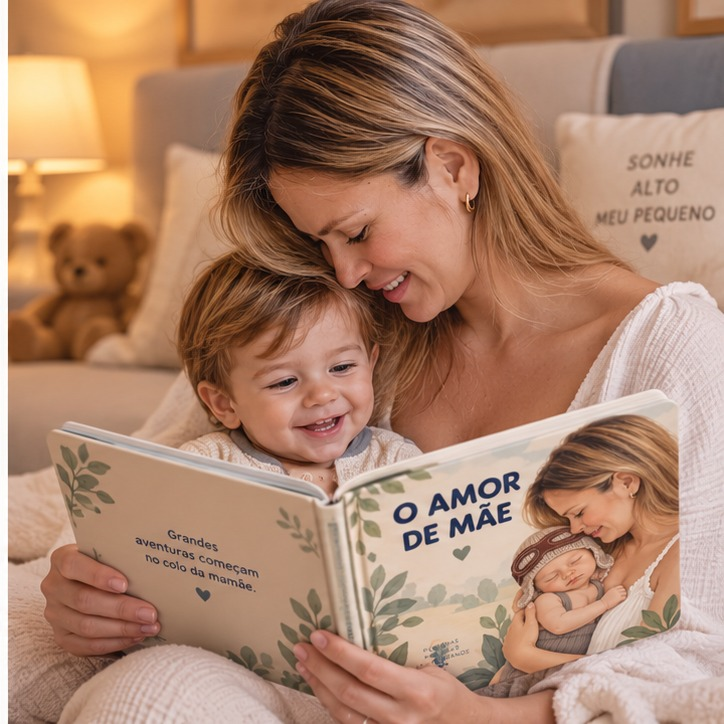
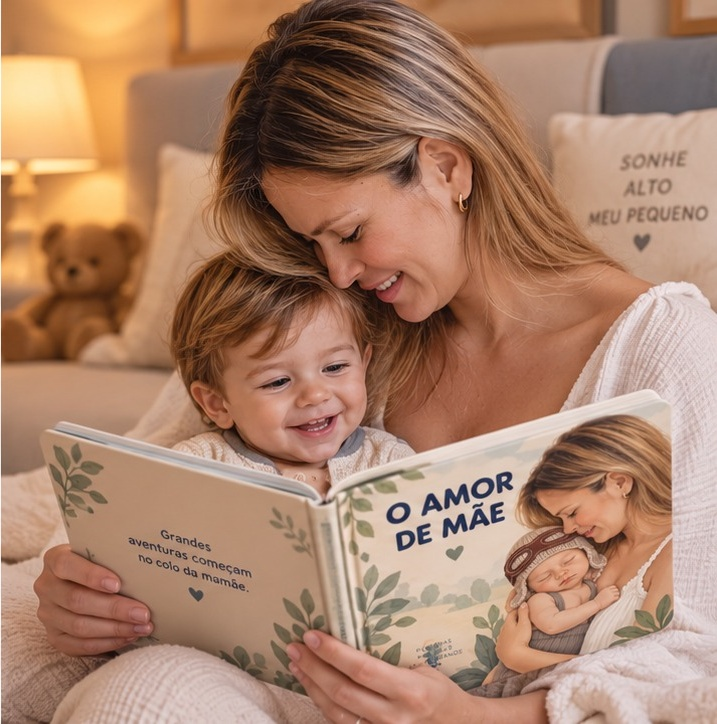
fix(landing): show only the Portuguese Amor de Mãe photos and trim the white band.

diff --git a/apps/web/src/Landing.tsx b/apps/web/src/Landing.tsx
@@ -67,9 +67,9 @@ const HERO_STRIP: { name: string; cover: HeroAsset; page: HeroAsset; photo: Hero
   },
   {
     name: "Amor de Mãe",
-    cover: heroAsset("capa-amordemae.jpg", "capa-amordemae-en.jpg", "capa-amordemae-es.jpg"),
-    page: heroAsset("pagina-amordemae-en.jpg", "pagina-amordemae-en.jpg", "pagina-amordemae-es.jpg"),
-    photo: heroAsset("foto-amordemae-en.jpg", "foto-amordemae-en.jpg", "foto-amordemae-es.jpg"),
+    cover: heroAsset("capa-amordemae.jpg"),
+    page: heroAsset("pagina-amordemae.jpg"),
+    photo: heroAsset("foto-amordemae.jpg"),
   },
   {
     name: "Mako",
